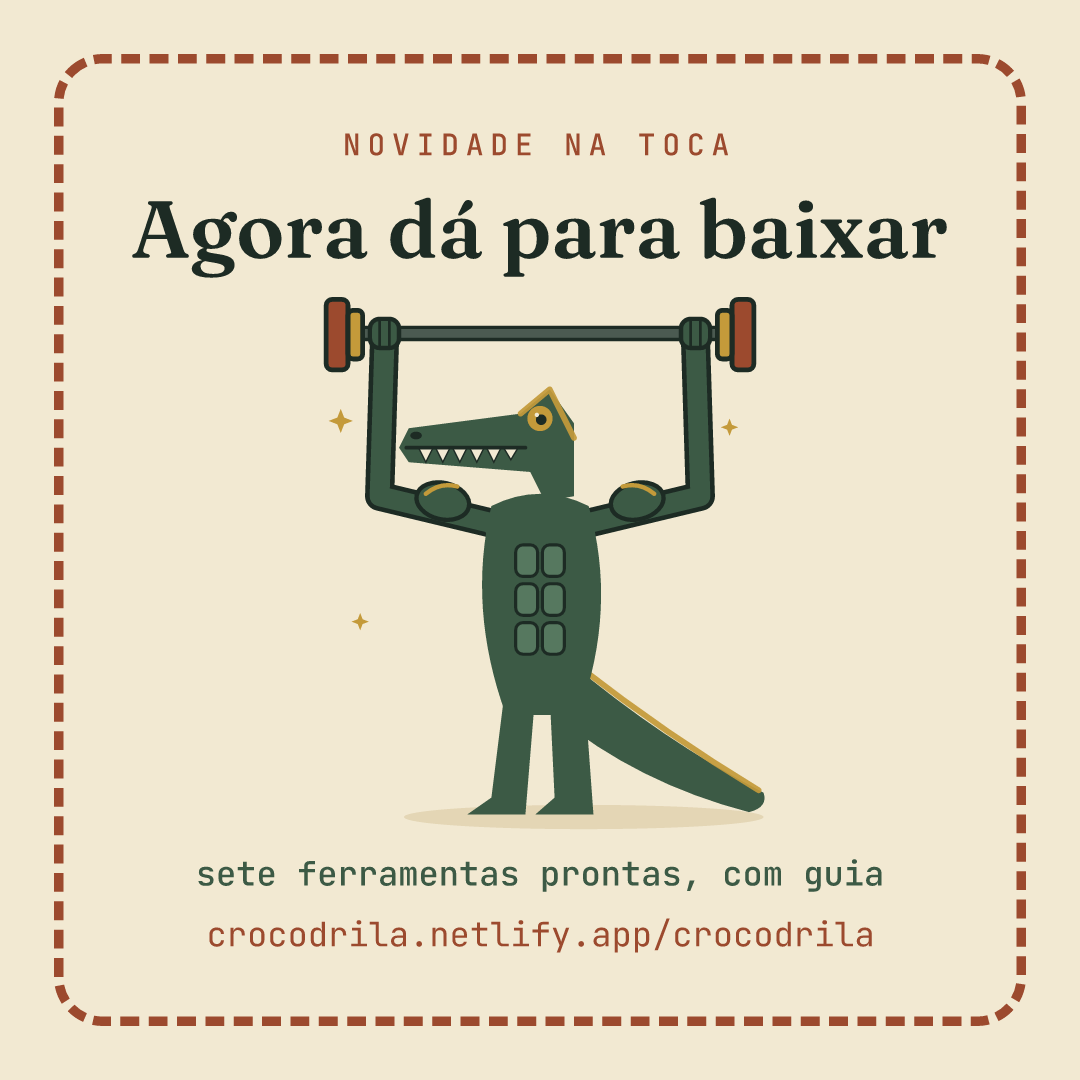
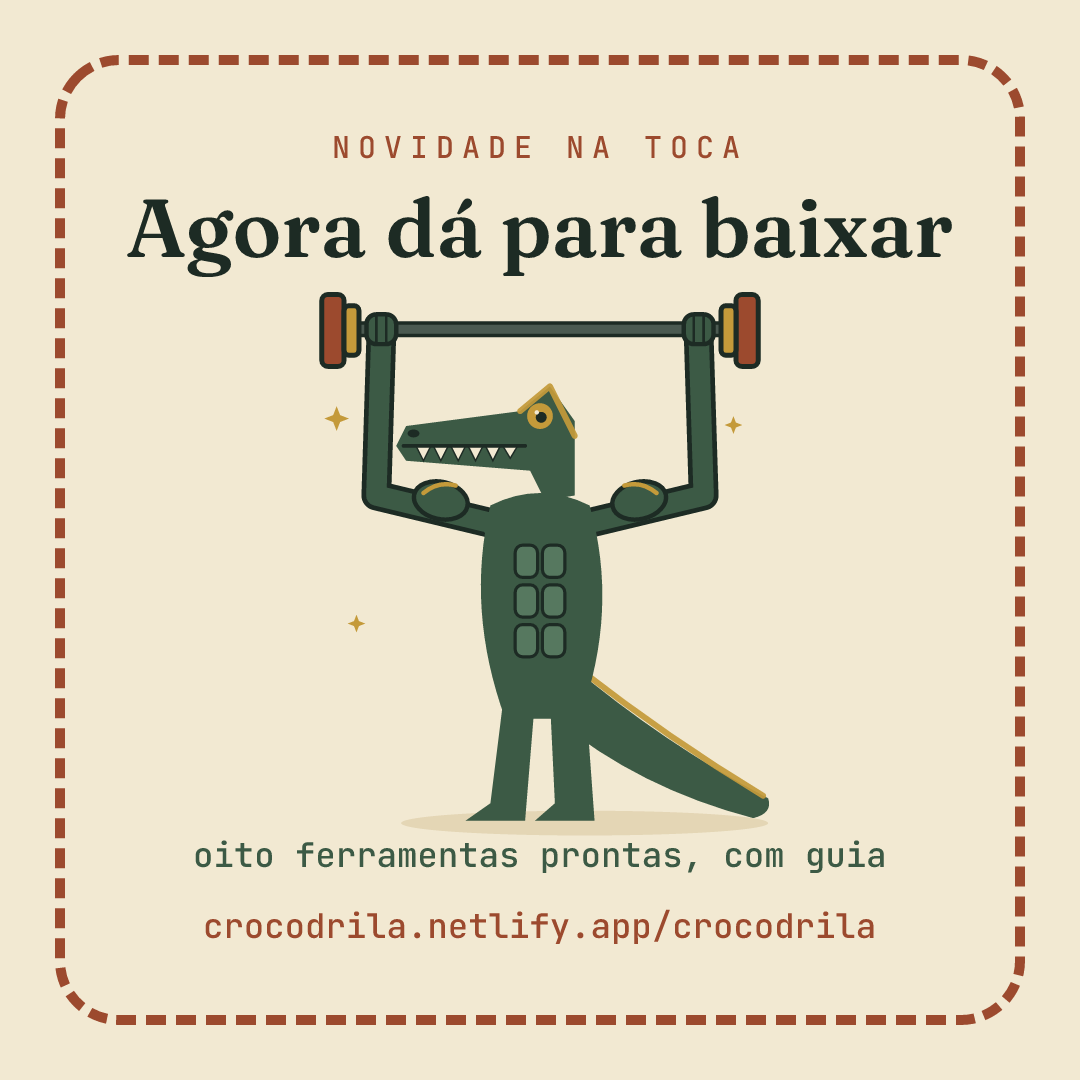
Kits: Oraculo entra como oitavo kit; corrige numero nao verificado na pagina
- /kits/ e texto da toca passam de sete para oito; Oraculo ganha card e link do zip
- cartao de divulgacao refeito com "oito" (scripts/gerar-cartao-kits.mjs, que antes nao existia)
- oraculo.md: tira "oito aspas em 981" (sem lastro nos logs) e usa as 1.040 citacoes do README

Claude-Session: https://claude.ai/code/session_015qkV3GiJu6eGANqjv1kPh2

diff --git a/src/content/crocodrila/oraculo.md b/src/content/crocodrila/oraculo.md
@@ -41,12 +41,12 @@ por isso ela não vale como fonte, e as instruções dizem isso ao assistente.
 
 **3. Um script confere cada aspa.** Esta é a peça que faz diferença. O script lê todo
 trecho entre aspas das fichas e procura, palavra por palavra, no texto de origem. Aspa que
-não existe lá vem listada. Na maior base que montamos, as fichas já tinham sido conferidas
-pelos próprios agentes que as escreveram, e mesmo assim o script achou oito aspas em 981 que
-não batiam com o texto. Em sete delas a IA tinha "consertado" o original sem avisar: juntado
-letras que o reconhecimento de texto separou, acrescentado um hífen. A oitava era falso
-alarme do próprio script, por causa de um hífen de fim de linha. Para quem estuda, os sete
-são o tipo de erro que passaria para o trabalho sem ninguém ver.
+não existe lá vem listada. Na maior base que montamos, são 1.040 trechos entre aspas nas
+fichas, e o script confere os 1.040. Conferir à mão não é uma opção, e pedir à própria IA
+que confira o que ela mesma escreveu é pedir ao autor que revise o próprio texto. O erro
+que se procura é o de cópia: a IA "conserta" o original sem avisar, juntando letras que o
+reconhecimento de texto separou, acrescentando um hífen. Para quem estuda, é o tipo de erro
+que passaria para o trabalho sem ninguém ver.
 
 **4. As instruções do Project fixam o comportamento.** Falar dos autores em terceira pessoa.
 Pôr a fonte no corpo da resposta, com disciplina, arquivo e página. Terminar com uma seção
